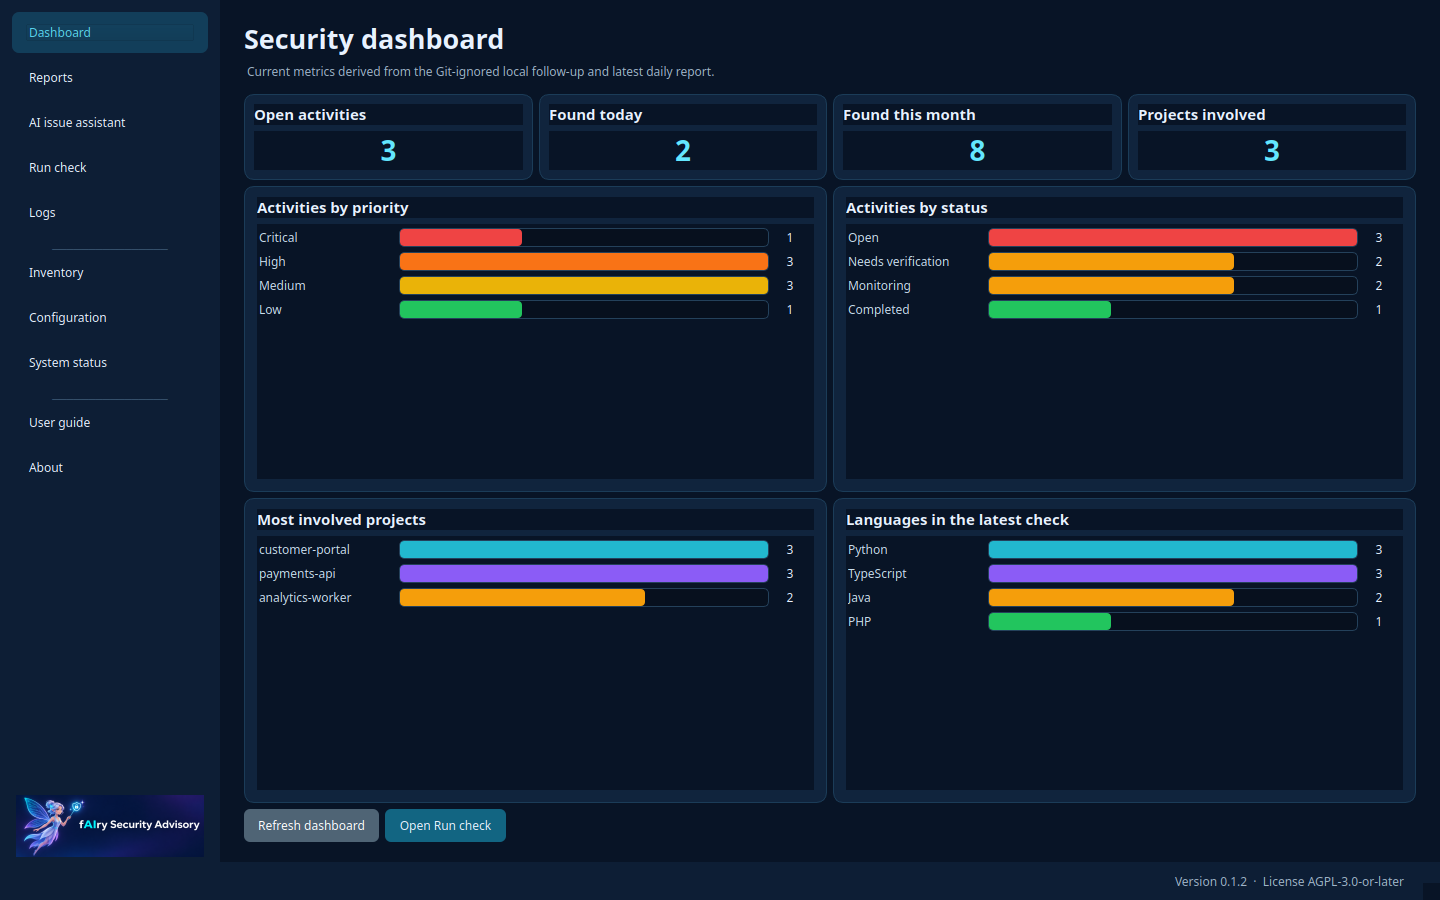
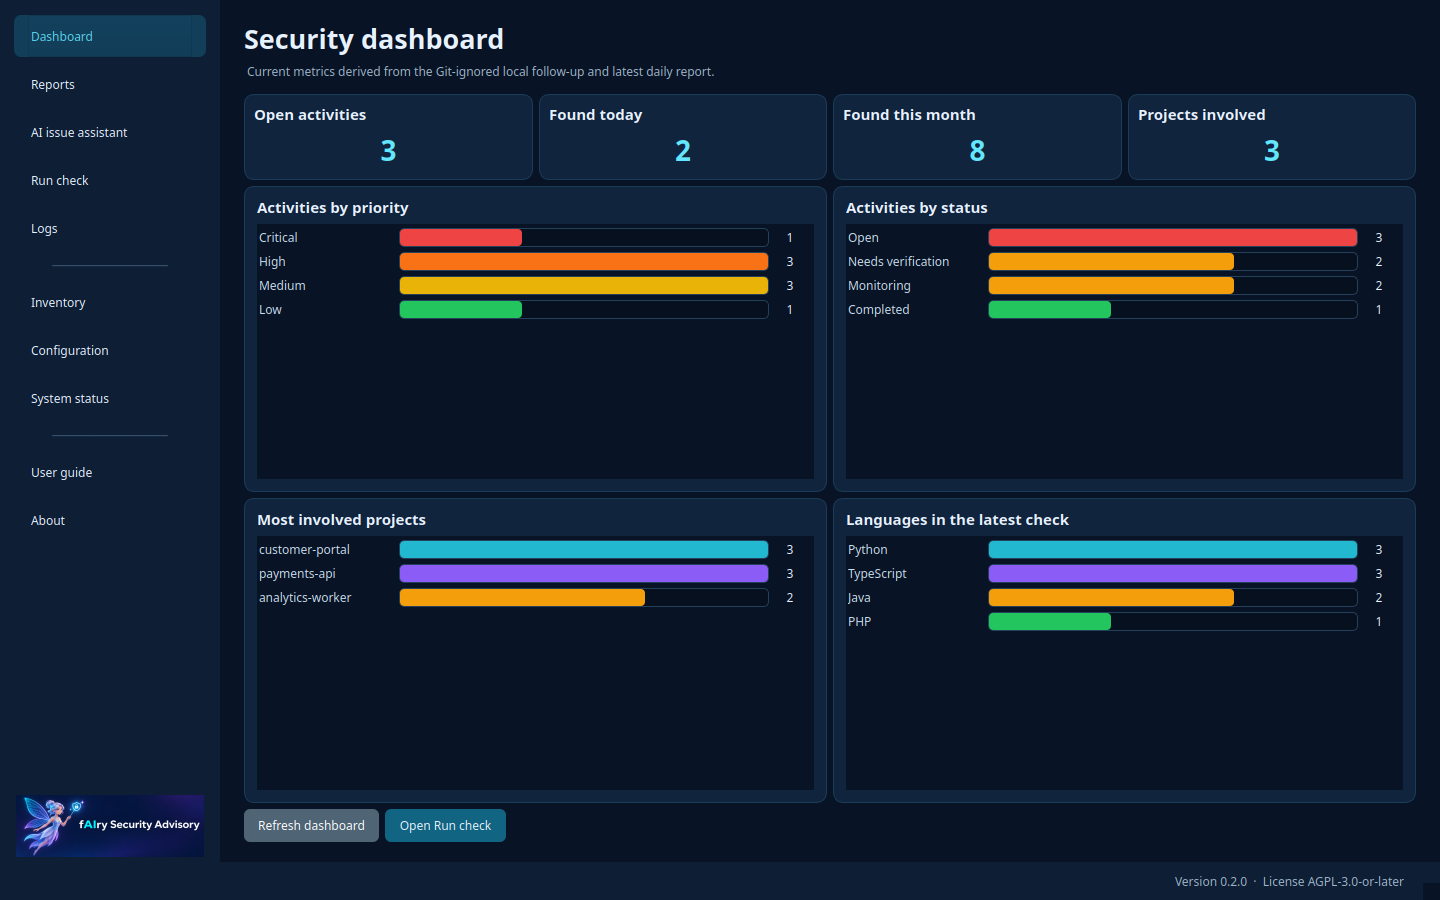
Prepare fAIry Security Advisory 0.2.0

diff --git a/tests/test_desktop_ui.py b/tests/test_desktop_ui.py
@@ -186,7 +186,11 @@ class DesktopWindowTest(unittest.TestCase):
             window.deleteLater()
             application.processEvents()
 
-    def test_report_reset_requires_confirmation_and_refreshes_the_view(self) -> None:
+    @patch(
+        "desktop.main_window.services.report_entries",
+        return_value=[("Demonstration report", Path("/tmp/fairy-demo-report.md"))],
+    )
+    def test_report_reset_requires_confirmation_and_refreshes_the_view(self, _entries) -> None:
         application = QApplication.instance() or QApplication([])
         window = MainWindow()
         with patch(
@@ -364,7 +368,11 @@ class DesktopWindowTest(unittest.TestCase):
             ],
         )
         self.assertGreater(window.inventory_tree.topLevelItemCount(), 0)
-        self.assertGreater(window.report_list.count(), 0)
+        if window.report_list.count():
+            self.assertTrue(window.reset_reports_button.isEnabled())
+        else:
+            self.assertIn("No reports yet", window.report_viewer.toPlainText())
+            self.assertFalse(window.reset_reports_button.isEnabled())
         self.assertEqual(window.status_table.columnCount(), 4)
         self.assertIn(
             "applies only to Inventory projects whose AI preference is ‘-’",
@@ -382,10 +390,10 @@ class DesktopWindowTest(unittest.TestCase):
             else:
                 self.assertIsNotNone(action)
         self.assertIsNotNone(window.status_table.cellWidget(optional_rows["Configuration backup"], 3))
-        self.assertIn("Version: 0.1.2", window.about_metadata.text())
+        self.assertIn("Version: 0.2.0", window.about_metadata.text())
         self.assertEqual(
             window.footer_identity.text(),
-            "Version 0.1.2  ·  License AGPL-3.0-or-later",
+            "Version 0.2.0  ·  License AGPL-3.0-or-later",
         )
         buttons = {button.text(): button for button in window.findChildren(QPushButton)}
         self.assertEqual(buttons["Save settings"].property("variant"), "success")

diff --git a/scripts/ai_usage.py b/scripts/ai_usage.py
@@ -15,6 +15,8 @@ import time
 from pathlib import Path
 from typing import Any, Iterable
 
+import yaml
+
 
 ROOT = Path(__file__).resolve().parent.parent
 USAGE_FILE = ROOT / "output/ai-usage/events.jsonl"
@@ -25,6 +27,17 @@ TRANSIENT_CODEX_ENV_VARS = frozenset({
     "CODEX_THREAD_ID",
     "CODEX_TOOL_CALL_ID",
 })
+
+
+def project_version(metadata_path: Path = ROOT / "VERSION.yaml") -> str:
+    """Use the public version metadata for the Codex app-server client identity."""
+    try:
+        metadata = yaml.safe_load(metadata_path.read_text(encoding="utf-8"))
+    except (OSError, yaml.YAMLError):
+        return "0.0.0"
+    if not isinstance(metadata, dict):
+        return "0.0.0"
+    return str(metadata.get("version") or "0.0.0")
 
 
 def agent_subprocess_environment(
@@ -213,7 +226,7 @@ def codex_rate_limits(executable: str, timeout: float = 6.0) -> dict[str, Any] |
     try:
         requests = (
             {"id": 1, "method": "initialize", "params": {
-                "clientInfo": {"name": "fairy-security-advisory", "version": "0.1.2"},
+                "clientInfo": {"name": "fairy-security-advisory", "version": project_version()},
                 "capabilities": {"experimentalApi": True},
             }},
             {"id": 2, "method": "account/rateLimits/read", "params": {

diff --git a/tests/test_ai_usage.py b/tests/test_ai_usage.py
@@ -11,11 +11,18 @@ from unittest.mock import patch
 
 from scripts.ai_usage import (
     TRANSIENT_CODEX_ENV_VARS, append_cli_diagnostic, append_usage_record,
-    load_usage_records, run_tracked_command, summarize_usage, usage_from_event,
+    load_usage_records, project_version, run_tracked_command, summarize_usage,
+    usage_from_event,
 )
 
 
 class AIUsageTest(unittest.TestCase):
+    def test_codex_client_version_comes_from_version_metadata(self) -> None:
+        with TemporaryDirectory() as directory:
+            metadata = Path(directory) / "VERSION.yaml"
+            metadata.write_text("version: 0.2.0\n", encoding="utf-8")
+            self.assertEqual(project_version(metadata), "0.2.0")
+
     @patch.dict("os.environ", {
         "CODEX_SESSION_ID": "parent-session",
         "CODEX_SANDBOX_NETWORK_DISABLED": "1",

diff --git a/tests/test_desktop_services.py b/tests/test_desktop_services.py
@@ -263,7 +263,7 @@ class DesktopConfigurationServicesTest(unittest.TestCase):
     def test_project_metadata_is_loaded_from_the_version_file(self) -> None:
         metadata = project_metadata()
         self.assertEqual(metadata["name"], "fAIry Security Advisory")
-        self.assertEqual(metadata["version"], "0.1.2")
+        self.assertEqual(metadata["version"], "0.2.0")
         self.assertEqual(metadata["author"], "Graziano Ugenti <gucw@proton.me>")
         self.assertEqual(metadata["last_modified_year"], "2026")
 

diff --git a/CHANGELOG.md b/CHANGELOG.md
@@ -7,6 +7,8 @@ and the project intends to use [Semantic Versioning](https://semver.org/).
 
 ## [Unreleased]
 
+## [0.2.0] - 2026-11-16
+
 ### Added
 
 - Run check now presents an animated fAIry workflow linked to actual check and
@@ -99,5 +101,6 @@ and the project intends to use [Semantic Versioning](https://semver.org/).
 - Backup import validates paths, declared members, sizes, hashes, and YAML.
 - Scanned projects remain read-only throughout analysis.
 
-[Unreleased]: https://github.com/mecio/fairy-security-advisory/compare/v0.1.2...HEAD
+[Unreleased]: https://github.com/mecio/fairy-security-advisory/compare/v0.2.0...HEAD
+[0.2.0]: https://github.com/mecio/fairy-security-advisory/compare/v0.1.2...v0.2.0
 [0.1.2]: https://github.com/mecio/fairy-security-advisory/releases/tag/v0.1.2
